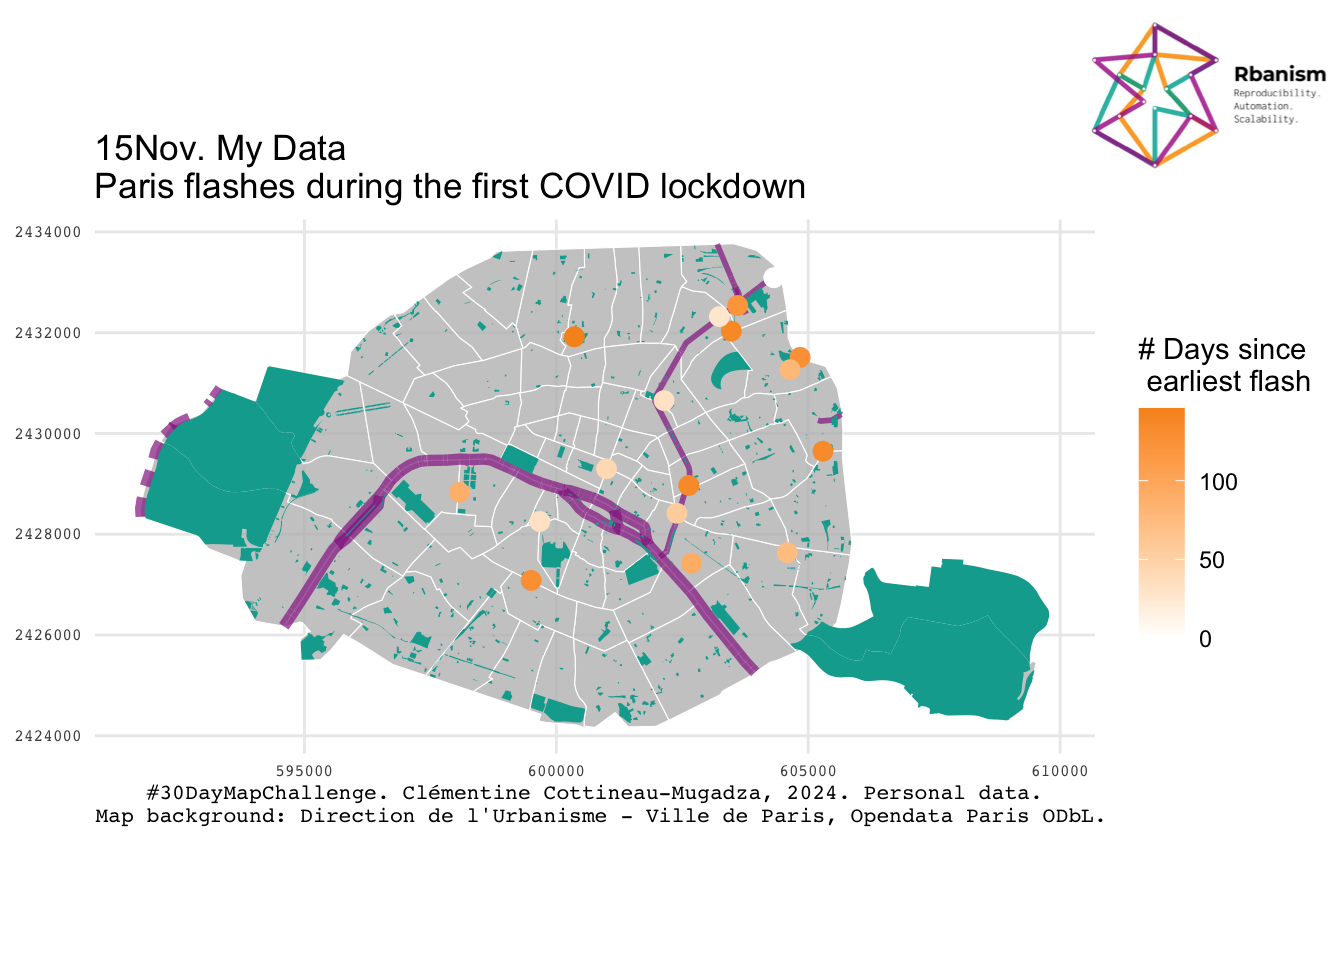
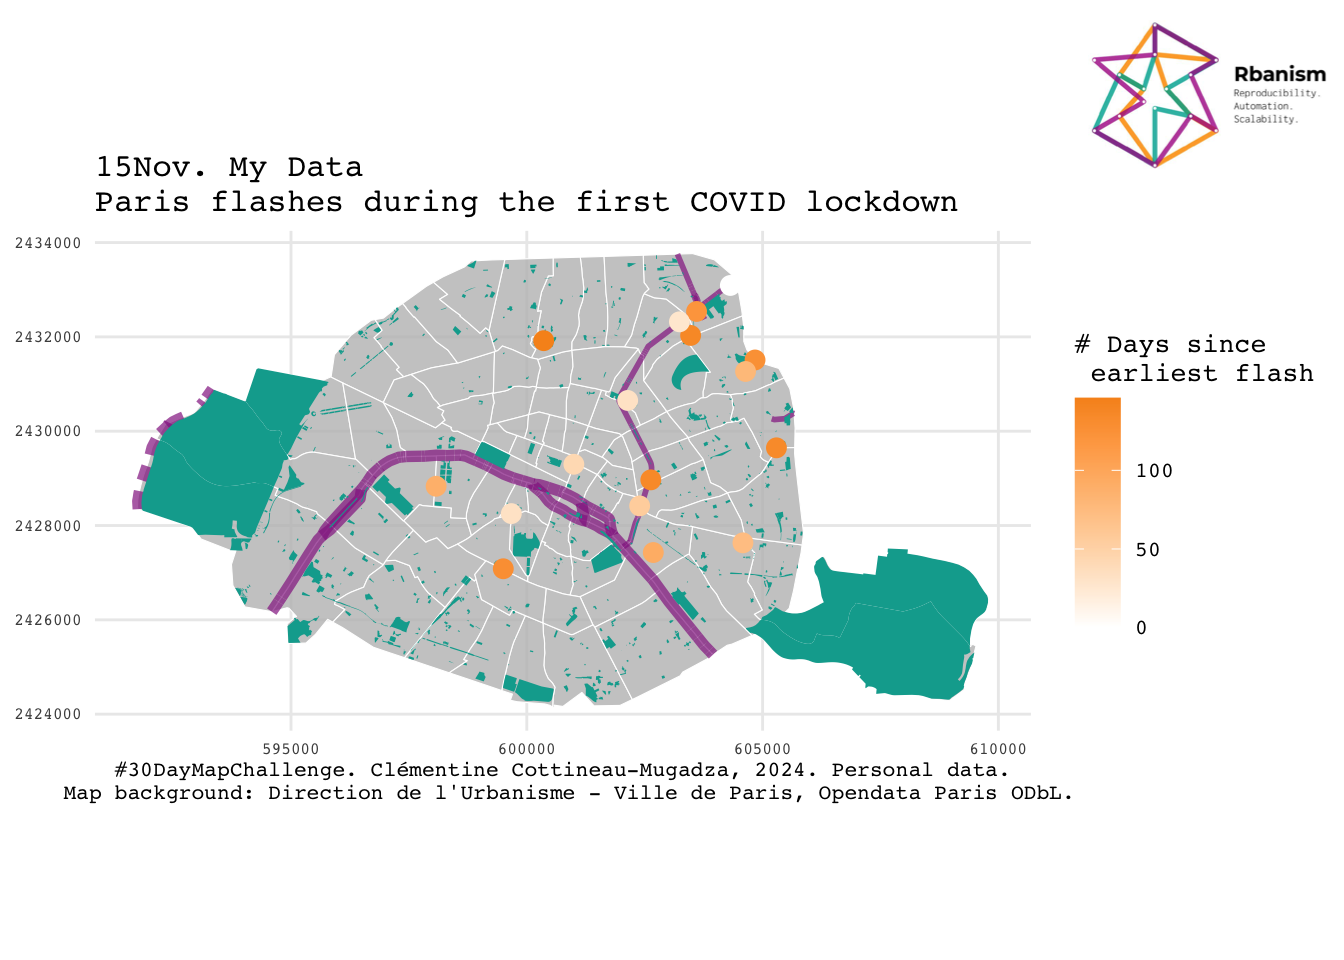
fix font issues

diff --git a/15Nov_MyData/15Nov_MyData.html b/15Nov_MyData/15Nov_MyData.html
@@ -279,10 +279,12 @@ Projected CRS: OSGB36 / British National Grid</code></pre>
 <span id="cb9-75"><a href="#cb9-75" aria-hidden="true" tabindex="-1"></a>  <span class="fu">guides</span>(<span class="at">linewidth  =</span> <span class="st">"none"</span>) <span class="sc">+</span></span>
 <span id="cb9-76"><a href="#cb9-76" aria-hidden="true" tabindex="-1"></a>  <span class="fu">theme_minimal</span>() <span class="sc">+</span></span>
 <span id="cb9-77"><a href="#cb9-77" aria-hidden="true" tabindex="-1"></a>  <span class="fu">theme</span>(<span class="at">axis.text=</span><span class="fu">element_text</span>(<span class="at">size=</span><span class="dv">6</span>, <span class="at">family=</span><span class="st">"Courier"</span>),</span>
-<span id="cb9-78"><a href="#cb9-78" aria-hidden="true" tabindex="-1"></a>        <span class="at">title.text=</span><span class="fu">element_text</span>(<span class="at">face=</span><span class="st">"bold"</span>, <span class="at">size=</span><span class="dv">10</span>, <span class="at">family=</span><span class="st">"Courier"</span>),</span>
-<span id="cb9-79"><a href="#cb9-79" aria-hidden="true" tabindex="-1"></a>        <span class="at">axis.title=</span><span class="fu">element_text</span>(<span class="at">size=</span><span class="dv">8</span>, <span class="at">family=</span><span class="st">"Courier"</span>)) </span>
-<span id="cb9-80"><a href="#cb9-80" aria-hidden="true" tabindex="-1"></a></span>
-<span id="cb9-81"><a href="#cb9-81" aria-hidden="true" tabindex="-1"></a>}</span></code><button title="Copy to Clipboard" class="code-copy-button"><i class="bi"></i></button></pre></div>
+<span id="cb9-78"><a href="#cb9-78" aria-hidden="true" tabindex="-1"></a>       <span class="at">plot.title=</span><span class="fu">element_text</span>(<span class="at">size=</span><span class="dv">12</span>, <span class="at">family=</span><span class="st">"Courier"</span>),</span>
+<span id="cb9-79"><a href="#cb9-79" aria-hidden="true" tabindex="-1"></a>        <span class="at">axis.title=</span><span class="fu">element_text</span>(<span class="at">size=</span><span class="dv">8</span>, <span class="at">family=</span><span class="st">"Courier"</span>),</span>
+<span id="cb9-80"><a href="#cb9-80" aria-hidden="true" tabindex="-1"></a>       <span class="at">legend.text=</span><span class="fu">element_text</span>(<span class="at">size=</span><span class="dv">8</span>, <span class="at">family=</span><span class="st">"Courier"</span>),</span>
+<span id="cb9-81"><a href="#cb9-81" aria-hidden="true" tabindex="-1"></a>       <span class="at">legend.title=</span><span class="fu">element_text</span>(<span class="at">size=</span><span class="dv">10</span>, <span class="at">family=</span><span class="st">"Courier"</span>)) </span>
+<span id="cb9-82"><a href="#cb9-82" aria-hidden="true" tabindex="-1"></a></span>
+<span id="cb9-83"><a href="#cb9-83" aria-hidden="true" tabindex="-1"></a>}</span></code><button title="Copy to Clipboard" class="code-copy-button"><i class="bi"></i></button></pre></div>
 </div>
 </section>
 </section>
